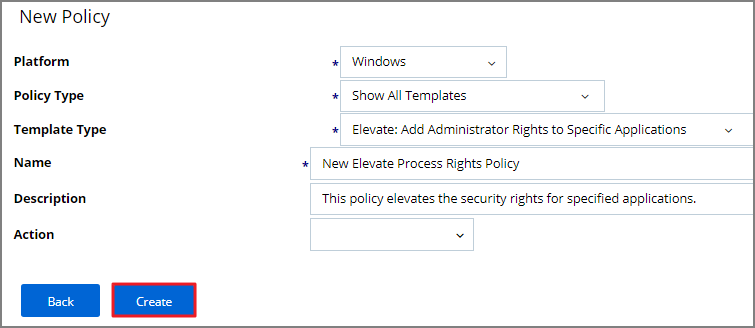
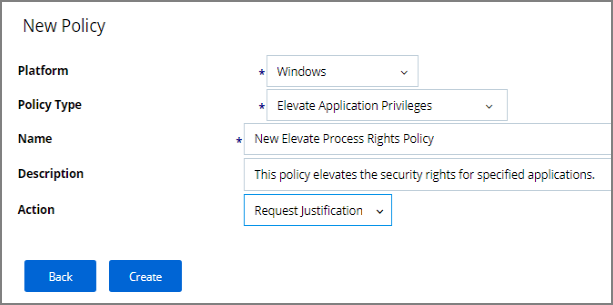
#148671: User Justification Required to Run and App Execution Requires Approval Updated

diff --git a/app-control/policies/examples/elevate/app-req-app.md b/app-control/policies/examples/elevate/app-req-app.md
@@ -3,51 +3,55 @@
 [priority]: # (10)
 # App Execution Requires Approval
 
-This policy type requires a user to provide a justification reason as to why they need to run a process (installer or executable). Then, the reason is submitted to specified managers via Privilege Manager __Tools__ | __Manage Approvals__ for approval. It also depends on whether or not the Manual Approval process is used. For instance, if you have configured Service Now as your approval process handler, these approval requests won't appear in the __Tools__ | __Manage Approvals__ area. There are several pieces to the Actions in this policy. Because Conditions and Actions are independent, these actions for approval can be applied to any condition.  In this use case, we will apply this action to the LICEcap gif creator.  
+This policy type requires a user to provide a justification reason as to why they need to run a process (installer or executable). Then, the reason is submitted to specified managers via Privilege Manager __Tools | Manage Approvals__ for approval. It also depends on whether or not the Manual Approval process is used. For instance, if you have configured Service Now as your approval process handler, these approval requests won't appear in the __Tools | Manage Approvals__ area. There are several pieces to the Actions in this policy. Because Conditions and Actions are independent, these actions for approval can be applied to any condition.  In this use case, we will apply this action to the LICEcap gif creator.  
 First create a filter that will identify the process/executable on which Privilege Manager will act.
 
-1. Navigate to __ADMIN__ | __Filters__.
+1. Navigate to __ADMIN | Filters__.
 
    ![ADMIN](images\app-req\ap-1.png)
    ![Filters](images\app-req\ap-2.png)
 1. Click on __Add Filter__.
    >**Note:** In this use case, we will target the LICEcap application (LICEcap.exe).
 
-1. Click __Windows__ for your Platform, then __Blank Win32 Executable__ Filter.  
-1. Add __Name__ and __Description__. Click on __Create__.
+1. From the Platform drop-down select __Windows__.
+1. From the Filter Type drop-down select __Blank Win32 Executable Filter__.  
+1. Add a name and description, click __Create__.
 
    ![New filter](images\app-req\ap-3.png)
 1. Click __Edit__ at the bottom of the page.
 1. Enter __LICEcap.exe__ in the File Name field under File Specifications as well as in the Original filename field under File Details.
 
-   ![filter options](images\app-req\ap-4.png)
+   ![Filter options](images\app-req\ap-4.png)
 1. Click __Save__.
 
 ## Create a workflow policy to assign to this filter
 
-1. Navigate to __Home__ | __Policies__.
+1. Navigate to __ADMIN | Policies__.
 1. Click on __Add New Policy__.
 
-   ![new policy](images\app-req\ap-5.png)
-1. Click a __platform__ | __Show All Templates__.
-1. Click on __Other: Empty Policy__.
-1. Name the policy __Request Approval Policy__, | __add a description__.
-1. Click __Create__.  
+   ![New policy](images\app-req\ap-5.png)
+1. From the Platform drop-down select __Windows__.
+1. From the Policy type drop-down select __Show All Templates__.  
+1. From the Template Type drop-down select __Other: Empty Policy__.
+1. Add a name and description, click __Create__.
 
-   ![create new policy](images\app-req\ap-6.png)
-1. Click __Edit__ | check the __Enabled__ box.
+   ![Create new policy](images\app-req\ap-6.png)
+1. Click __Edit__ and check the __Enabled__ box.
 
    ![Enable policy](images\app-req\ap-7.png)
-1. Click the __Conditions__ tab | Add __Application Target__.
-1. Search for the filter created in the previous steps __(LICEcap)__.  
-1. Click that filter | __Add__.
+1. Navigate to the __Conditions__ tab.
+1. Click Add __Application Target__.
+1. Search and select the __(LICEcap)__ filter.  
+1. Click __Add__.
 
-   ![add application target](images\app-req\ap-8.png)
-1. Click the __Actions__ tab  | __add Action__.
+   ![Add application target](images\app-req\ap-8.png)
+1. Navigate to the __Actions__ tab.
+1. Click on __add Action__.
 
-   ![add action](images\app-req\ap-9.png)
+   ![Add action](images\app-req\ap-9.png)
 1. In the search field, type __Approval__.
-1. Locate __Approval Request Form Action__ | Click this action | __Add__.
+1. Select __Approval Request Form Action__.
+1. __Add__ the action.
 1. Click on __Save__.  
 
    ![Approval Request Form Action](images\app-req\ap-10.png)
@@ -60,11 +64,12 @@ First create a filter that will identify the process/executable on which Privile
 
 ## To Approve Requests
 
-1. Return to the Privilege Manager Dashboard and navigate to __TOOLS__ | __Manage Approvals__.  
+1. Return to the Privilege Manager Dashboard and navigate to __TOOLS | Manage Approvals__.  
 
    ![Manage Approvals](images\app-req\ap-11.png)
 1. Click the __+__ left of the request to view the options for approval.  
-1. Click on __Approve__ | click __One Time or an allotted time frame for access__ |__Approve__.
+1. Click on __Approve__.
+1. Select __One Time or an allotted time frame for access__ and __Manage Approve__.
 1. You can now return to the desktop where the user initiated the executable, and you will see the request has been approved.
 1. Click on __Continue__ and the user is allowed to run that executable.
 

diff --git a/app-control/policies/examples/elevate/user-just.md b/app-control/policies/examples/elevate/user-just.md
@@ -7,7 +7,7 @@ This policy type requires a user to provide a justification for why they need to
 
 First, create a filter that identifies the application.
 
-1. Navigate to __ADMIN__ | __Filters__.
+1. Navigate to __ADMIN | Filters__.
 
    ![ADMIN](images/user-just/us-1.png)
    ![Filters](images/user-just/us-2.png)
@@ -15,48 +15,52 @@ First, create a filter that identifies the application.
    >**Note:** In this use case, we will target the Calculator application (calc.exe).
 
    ![Add filter](images/user-just/us-3.png)
-1. Click __Windows__ for your Platform, then __Blank Win32 Executable__ Filter.  
-1. Add __Name__ and __Description__.
-1. Click on __Create__.
+1. From the Platform drop-down select __Windows__.
+1. From the Filter type drop-down select __Blank Win32 Executable__ Filter.  
+1. Add a name and description, click __Create__.
 
    ![Create](images/user-just/us-4.png)
 1. Click __Edit__ at the bottom of the page.
 1. Enter __calc.exe__ in the File Name field.
 1. Click __Save__.
 
-   ![Calc Filter](images/user-just/us-4.png)
+   ![Calc Filter](images/user-just/us-5.png)
 
 You can now use this Condition filter in the policy to govern the calc.exe executable.
 
 ## How to Create the Policy
 
-1. Navigate to __ADMIN__ | __Policies__.
+1. Navigate to __ADMIN | Policies__.
 1. Click on Add __New Policy__.
 
-   ![Add new policy](images/user-just/us-5.png)
-1. Click __Windows__ as a Platform | click __Show All Templates__. From the Template Type dropdown Click __Elevate: Add Administrator Rights to Specific Applications__.
-1. Add a __Name__ and __Description__.
-1. Click __Create__.
+   ![Add new policy](images/user-just/us-6.png)
+1. From the Platform drop-down select __Windows__.
+1. From the Policy Type drop-down select __Elevate Application Privileges__.
+1. Add a name and description.
+1. From the the Action drop-down select __Request Justification__.
+1. click __Create__.
 
-   ![Create new policy](images/user-just/us-6.png)
-1. Click __Edit__ | check the __Enabled__ box.
+   ![Create new policy](images/user-just/us-7.png)
+1. Click __Edit__  and check the __Enabled__ box.
 
-   ![Enable policy](images/user-just/us-7.png)
-1. Click the __Conditions__ tab.
-1. Click __Add Application Target__ and search for the name of your __Calc__ filter.
-1. Select this filter | Click __Add__.  
+   ![Enable policy](images/user-just/us-8.png)
+1. Navigate to the __Conditions__ tab.
+1. Click __Add Application Target__.
+1. Search and select the __Calc__ filter.
+1. Click __Add__.  
 
-   ![Add application target](images/user-just/us-8.png)
+   ![Add application target](images/user-just/us-9.png)
 1. Click on __Save__.
 
    >**Note:** This saves the policy to the policy list accessed from the Home screen – click on Policies to view from the Home page.  Once the policy is delivered to the endpoint agent, calc.exe will require the user to enter a justification reason for running this application.  This policy will be applied to all users on all computers.
 
 ## To adjust this policy to apply to specific users or endpoints
 
-1. Click on the __Advanced Policy__ View in the policy’s General tab.
-1. Click the __Conditions__ tab | click add __Inclusion/Exclusion filters__ and __Computer Groups__.
+1. Click on __Advanced Policy__ view in the policy’s General tab.
+1. Navigate to the __Conditions__ tab
+1. Click add __Inclusion/Exclusion filters__ and __Computer Groups__.
 
 The user will see a justification message as a result of the policy.
 When the user adds a reason, they will then click the __Continue__ button and the application is allowed to execute.
 
->**Note:** You can then view a user’s provided reasons in Privilege Manager on the __ADMIN__ | __Events Discovery__ | __Policy Activity__ page or under __Reports__ | __Application Justification Summary Details Report__.
+>**Note:** You can then view a user’s provided reasons in Privilege Manager on the __ADMIN | Events Discovery | Policy Activity page or under Reports | Application Justification Summary Details Report__.
